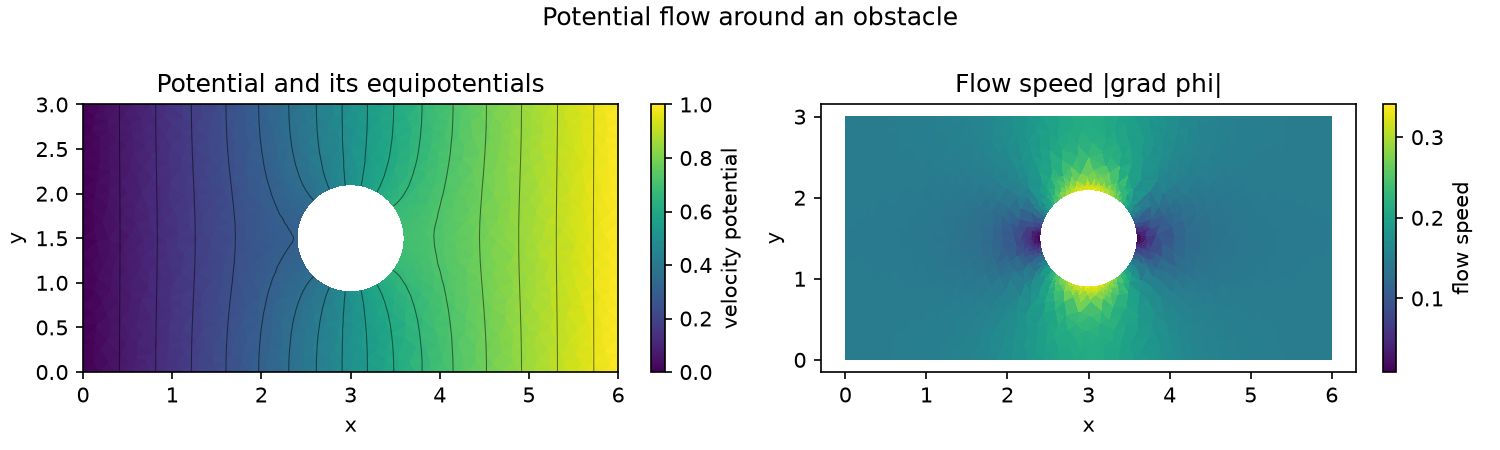
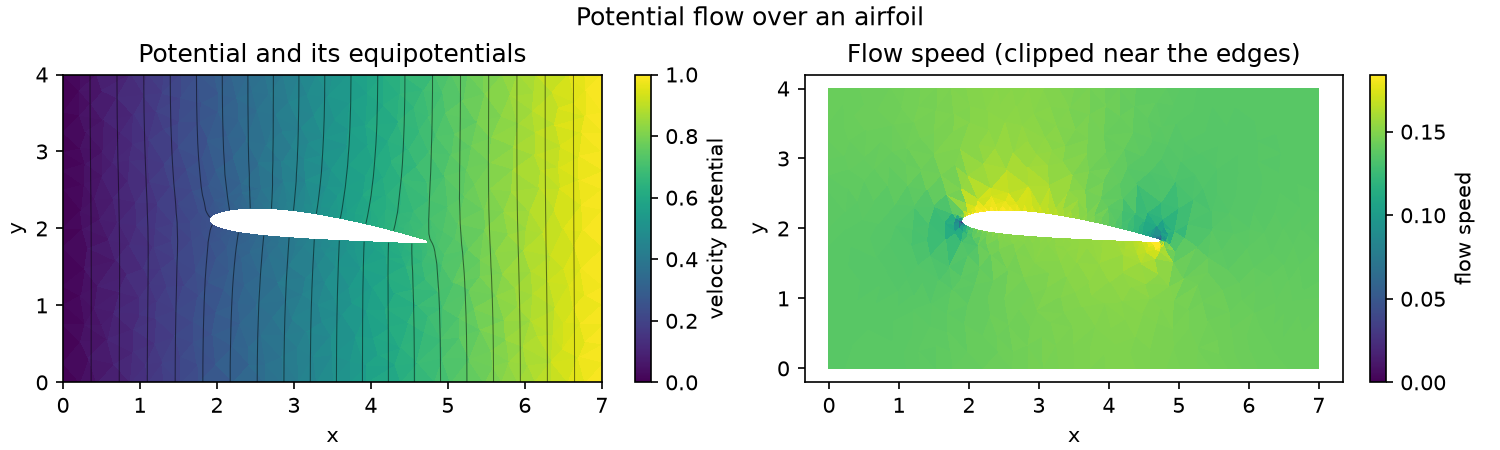
Make the potential-flow obstacle a real NACA airfoil
Upgrades the potential-flow demo from a circular obstacle to a NACA 2412 airfoil at
6 degrees angle of attack, generated from the standard 4-digit formula (no data file).
The equipotentials crowd over the upper surface and the flow speeds up there, the
classic wing picture.

Meshing a finely sampled smooth curve exposed a performance failure in Ruppert's:

- Perturb each inserted circumcenter a hair (1e-4 of its circumradius, deterministic
  direction from a fixed seed) off its exact position. A circumcenter lies exactly on
  its triangle's circumcircle, the cocircular worst case for the incremental Delaunay
  underneath; a finely sampled outline packs enough near-cocircular points that qhull's
  merge fails on most insertions there, and the batch-rebuild recovery then dominates
  the run (O(n) per trip). The nudge breaks the degeneracy at the source, far above
  qhull's precision floor and far below any mesh feature, so the airfoil meshes in a
  couple of seconds with no rebuilds. `test_refinement_is_reproducible_despite_the_perturbation`
  pins that the fixed seed keeps a run deterministic.

- The trailing edge is trimmed to a small blunt edge (`te_trim`) so the mesher is not
  chasing a cusp with unboundedly many tiny triangles.

diff --git a/examples/solver_demos.py b/examples/solver_demos.py
@@ -36,7 +36,8 @@ from fem.modal import ModalSolver
 
 from demo_registry import Demo, DemoResult, Figure
 from domains import (
-    beam, column, l_bracket_pslg, plate_with_hole_pslg, square, tuning_fork_pslg,
+    airfoil_channel_pslg, beam, column, l_bracket_pslg, plate_with_hole_pslg, square,
+    tuning_fork_pslg,
 )
 
 np.set_printoptions(suppress=True)
@@ -88,26 +89,25 @@ def demo_poisson_equation(mesh):
                'conditions', setup=True),
     ])
 
-def demo_potential_flow(length=6.0, height=3.0, radius=0.6, segments=128,
-                        min_angle=28, max_area_fraction=0.001):
-    """Potential flow around a circular obstacle: Laplace's equation for the velocity
-    potential, with the obstacle a no-flux streamline the flow parts around."""
+def demo_potential_flow(length=7.0, height=4.0, chord=3.0, angle_of_attack=6.0,
+                        n_points=80, min_angle=20, max_area_fraction=0.002):
+    """Potential flow over a NACA airfoil: Laplace's equation for the velocity potential,
+    with the wing a no-flux streamline the flow accelerates over."""
     # An ideal (incompressible, irrotational) flow has a velocity potential phi with
-    # v = grad(phi) and div(v) = 0, so phi solves Laplace's equation. The solid obstacle
-    # carries no flow through it, which is exactly the natural (zero-flux) condition of
-    # the weak form: say nothing on the rim and it becomes a streamline the flow parts
-    # around. A potential difference across the channel drives the flow; the top and
-    # bottom walls are no-flux too.
-    pslg = plate_with_hole_pslg(length, height, radius, segments=segments)
+    # v = grad(phi) and div(v) = 0, so phi solves Laplace's equation. The wing carries no
+    # flow through it, which is exactly the natural (zero-flux) condition of the weak
+    # form: say nothing on its surface and it becomes a streamline the flow parts around.
+    # A potential difference across the channel drives the flow; the walls are no-flux too.
+    pslg = airfoil_channel_pslg(length, height, chord, angle_of_attack, n_points=n_points)
     pslg.validate()
     mesh = RuppertsAlgorithm(pslg, min_angle=min_angle,
                              max_area=max_area_fraction * pslg.area()).refine()
 
     equation = Poisson(source=0)   # Laplace: no sources in the flow
     bc = BoundaryConditions()
-    # phi rises from inlet to outlet, so v = grad(phi) runs left to right. The rim and
-    # the long walls take no condition, which is the no-flux streamline that makes this
-    # a flow *around* the obstacle rather than through it.
+    # phi rises from inlet to outlet, so v = grad(phi) runs left to right. The wing and
+    # the walls take no condition, which is the no-flux streamline that makes this a flow
+    # *over* the wing rather than through it.
     bc.add(BCType.DIRICHLET, on_plane(0, 0.0), 0.0)      # inlet (left)
     bc.add(BCType.DIRICHLET, on_plane(0, length), 1.0)   # outlet (right)
 
@@ -115,30 +115,35 @@ def demo_potential_flow(length=6.0, height=3.0, radius=0.6, segments=128,
     solution = solver.solve()
     velocity = solver.space.gradient(solution.u)         # v = grad(phi), per element
     speed = np.linalg.norm(velocity, axis=1)
+    # Ideal flow with no Kutta condition predicts a near-singular velocity where the
+    # airfoil edges are sharp, which would swamp the colour scale. Clip it to a high
+    # percentile so the flow over the wing, the point of the figure, stays legible.
+    cap = float(np.percentile(speed, 96))
 
-    conditions = Plotter(panel_aspect=2.0)
+    conditions = Plotter(panel_aspect=1.8)
     conditions.plot(mesh, mode='bc', bc=bc)
 
-    plotter = Plotter(1, 2, title='Potential flow around an obstacle', panel_aspect=2.0)
+    plotter = Plotter(1, 2, title='Potential flow over an airfoil', panel_aspect=1.8)
     plotter.plot(mesh, solution.u, mode='colored', idx=(0, 0), label='velocity potential',
-                 title='Potential and its equipotentials', contour=18)
-    plotter.plot(mesh, speed, mode='colored', idx=(0, 1), label='flow speed',
-                 title='Flow speed |grad phi|')
+                 title='Potential and its equipotentials', contour=22)
+    plotter.plot(mesh, speed, mode='colored', idx=(0, 1), label='flow speed', clim=(0.0, cap),
+                 title='Flow speed (clipped near the edges)')
     return DemoResult([
         Figure(plotter,
-               'Ideal flow past a circular obstacle. Left: the velocity potential phi '
-               '(Laplace) with its equipotentials, which crowd together where the flow '
-               'has to speed up and bend around the hole. Right: the flow speed |grad '
-               'phi|, highest at the top and bottom of the obstacle where the channel '
-               'narrows, and slack fore and aft at the stagnation points. The rim carries '
-               'no condition at all: a free surface is the no-flux streamline of the weak '
-               'form, so the flow parts around a solid obstacle without a word said about '
-               'it.',
+               'Ideal (irrotational, incompressible) flow over a NACA 2412 airfoil at a '
+               f'{angle_of_attack:g}-degree angle of attack, generated from the standard '
+               'formula rather than a data file. Left: the velocity potential phi (Laplace) '
+               'with its equipotentials, which crowd over the upper surface where the flow '
+               'speeds up. Right: the flow speed, faster over the top than the bottom, with '
+               'stagnation near the leading and trailing edges. The wing takes no condition '
+               'at all: a free surface is the no-flux streamline of the weak form, so the '
+               'flow parts around it. The speed is clipped near the sharp edges, where ideal '
+               'flow with no Kutta condition predicts an unphysical velocity spike.',
                'flow'),
         Figure(conditions,
                'A potential difference across the channel (phi = 0 at the inlet, 1 at the '
-               'outlet) drives the flow; the long walls and the obstacle rim take nothing, '
-               'which is the no-flux condition that makes them streamlines.',
+               'outlet) drives the flow left to right; the walls and the wing surface take '
+               'nothing, which is the no-flux condition that makes them streamlines.',
                'conditions', setup=True),
     ])
 
@@ -1458,11 +1463,11 @@ DEMOS = [
     Demo('heat_3d', demo_heat_3d, section=SOLVING, smoke_kwargs={'steps': 3, 'n': 5}),
     Demo('wave', demo_wave_equation, section=SOLVING, domain=square),
     Demo('robin', demo_robin_bc, section=SOLVING, domain=partial(square, 80)),
-    # Builds its own plate-with-hole from an outline (the meshing is part of what it
-    # shows), so it takes no domain. The smoke run loosens the size cap and coarsens the
-    # circle, which together are all of its cost.
+    # Builds its own airfoil-in-a-channel from the NACA formula (the meshing is part of
+    # what it shows), so it takes no domain. The smoke run loosens the size cap and
+    # coarsens the airfoil, which together are all of its cost.
     Demo('potential_flow', demo_potential_flow, section=SOLVING,
-         smoke_kwargs={'segments': 32, 'max_area_fraction': 0.03}),
+         smoke_kwargs={'n_points': 40, 'max_area_fraction': 0.02}),
 
     # A cantilever is a beam. On the square this used to load, the "bending" was a
     # square bulging sideways, and the stress concentration had nowhere to run to.

diff --git a/examples/domains.py b/examples/domains.py
@@ -74,6 +74,60 @@ def plate_with_hole_pslg(length: float = 6.0, height: float = 3.0, radius: float
     return PSLG.from_loops([outline, hole])
 
 
+def _naca4_outline(camber: float, camber_pos: float, thickness: float, n: int,
+                   te_trim: float = 0.05) -> np.ndarray:
+    """A NACA 4-digit airfoil as a closed loop of points, unit chord along +x.
+
+    `camber` (m), `camber_pos` (p), and `thickness` (t) are the usual fractions: a NACA
+    2412 is (0.02, 0.4, 0.12). Cosine node spacing clusters points at the leading and
+    trailing edges, where the curvature is highest.
+
+    `te_trim` cuts that fraction of the chord off the trailing edge, leaving a blunt edge
+    of finite thickness in place of the near-cusp a full 4-digit section tapers to. The
+    cusp is a sliver the mesher would chase with unboundedly many tiny triangles; a blunt
+    edge meshes in a moment and barely changes the flow.
+    """
+    beta = np.linspace(0, np.pi, n)
+    x = 0.5 * (1 - np.cos(beta)) * (1 - te_trim)    # cosine spacing, 0 (LE) to 1-te_trim (TE)
+    yt = 5 * thickness * (0.2969 * np.sqrt(x) - 0.1260 * x - 0.3516 * x**2
+                          + 0.2843 * x**3 - 0.1015 * x**4)
+    if camber > 0 and 0 < camber_pos < 1:
+        m, p = camber, camber_pos
+        yc = np.where(x < p, m / p**2 * (2 * p * x - x**2),
+                      m / (1 - p)**2 * ((1 - 2 * p) + 2 * p * x - x**2))
+        dyc = np.where(x < p, 2 * m / p**2 * (p - x), 2 * m / (1 - p)**2 * (p - x))
+    else:
+        yc = dyc = np.zeros_like(x)                 # symmetric section (m = 0)
+    theta = np.arctan(dyc)
+    upper = np.column_stack([x - yt * np.sin(theta), yc + yt * np.cos(theta)])
+    lower = np.column_stack([x + yt * np.sin(theta), yc - yt * np.cos(theta)])
+    # Trailing edge over the top to the leading edge, then back under; the shared leading
+    # edge is dropped so it is not duplicated.
+    return np.vstack([upper[::-1], lower[1:]])
+
+
+def airfoil_channel_pslg(length: float = 7.0, height: float = 4.0, chord: float = 3.0,
+                         angle_of_attack: float = 6.0, camber: float = 0.02,
+                         camber_pos: float = 0.4, thickness: float = 0.12,
+                         n_points: int = 100) -> PSLG:
+    """A rectangular channel with a NACA 4-digit airfoil obstacle in it, as a PSLG.
+
+    The airfoil is generated analytically (no data file needed), scaled to `chord`,
+    pitched `angle_of_attack` degrees nose-up into a left-to-right flow, and placed in
+    the channel. The default is a NACA 2412. Under the even-odd rule the airfoil loop is
+    a hole, so a mesh covers the fluid and stops at the wing, making its surface a
+    boundary the solver sees (and, taking no condition, a streamline).
+    """
+    foil = _naca4_outline(camber, camber_pos, thickness, n_points)
+    foil = foil * chord - [0.35 * chord, 0.0]       # pivot near the quarter-chord
+    a = np.deg2rad(angle_of_attack)
+    c, s = np.cos(a), np.sin(a)
+    foil = foil @ np.array([[c, -s], [s, c]])       # nose up into the +x flow
+    foil = foil + [0.42 * length, 0.5 * height]
+    outline = np.array([[0.0, 0.0], [length, 0.0], [length, height], [0.0, height]])
+    return PSLG.from_loops([outline, foil])
+
+
 def l_bracket_pslg(arm: float = 4.0, width: float = 1.2, fillet_radius: float = 0.0,
                    n_fillet: int = 16) -> PSLG:
     """An L-shaped bracket as a PSLG, with an optional fillet at the inner corner.

diff --git a/fem/mesh/ruppert.py b/fem/mesh/ruppert.py
@@ -128,6 +128,11 @@ class RuppertsAlgorithm:
         # Which loop each boundary facet of the returned mesh came from; set by refine().
         self.boundary_loops = np.zeros(0, dtype=int)
 
+        # A fixed seed so a mesh is reproducible: the only randomness is the direction of
+        # the tiny nudge `_perturb` gives each inserted circumcenter (see there), and
+        # insertions happen in a deterministic order, so the whole run is deterministic.
+        self._rng = np.random.default_rng(0)
+
         # Diametral circles, and which segments a vertex sits inside. Both are
         # maintained as segments and vertices are added; see `_diametral_circles`
         # and `get_encroached_segments`. The one full scan is here, where a KD-tree
@@ -530,7 +535,8 @@ class RuppertsAlgorithm:
                         break
                     self._refill_bad_queue(remaining)
                     continue
-                circumcenter = calculate_circumcenter(self.vertices[list(triangle)])
+                circumcenter = self._perturb(
+                    calculate_circumcenter(self.vertices[list(triangle)]), list(triangle))
                 # Inserting a point inside a segment's diametral circle would cut
                 # the mesh off from the outline, so split those segments instead
                 # and put the triangle back to be reconsidered once they are gone.
@@ -561,6 +567,25 @@ class RuppertsAlgorithm:
         self._encroached = np.delete(self._encroached, segment_idx)
         self._circles = None
         return loop_id
+
+    def _perturb(self, circumcenter, triangle):
+        '''Nudge an inserted circumcenter a hair off its exact position.
+
+        A circumcenter lies exactly on its triangle's circumcircle, which is the
+        cocircular worst case for the incremental Delaunay underneath: on the lifted
+        paraboloid the new point is coplanar with the ones it joins, and qhull's facet
+        merge can fail with a precision error. One re-entrant corner trips it rarely, but
+        a finely sampled smooth outline (an airfoil) packs enough near-cocircular points
+        that it trips on most insertions there, and the batch-rebuild recovery in
+        `_retriangulate` then dominates the run. Moving the point a fixed tiny fraction of
+        its circumradius, in a deterministic direction, breaks the degeneracy at the
+        source while leaving it where refinement meant to put it: the offset is far above
+        qhull's precision floor and far below any mesh feature. Only interior circumcenters
+        are perturbed; a segment split point has to stay on its segment.
+        '''
+        radius = float(np.linalg.norm(circumcenter - self.vertices[triangle[0]]))
+        angle = float(self._rng.uniform(0, 2 * np.pi))
+        return circumcenter + 1e-4 * radius * np.array([np.cos(angle), np.sin(angle)])
 
     def add_vertex(self, vertex):
         # The one place vertices appear, so the one place a segment can newly

diff --git a/tests/test_ruppert.py b/tests/test_ruppert.py
@@ -664,3 +664,14 @@ def test_a_reentrant_corner_meshes_through_an_incremental_precision_error(max_ar
     vertices = np.asarray(mesh.vertices)
     filled = sum(calculate_polygon_area(vertices[element]) for element in mesh.elements)
     assert filled == pytest.approx(pslg.area())
+
+
+def test_refinement_is_reproducible_despite_the_perturbation():
+    """Each inserted circumcenter is nudged a hair off its exact position to dodge the
+    cocircular precision failure, but from a fixed seed, so a run is deterministic:
+    meshing the same outline twice must give the identical triangulation."""
+    first = RuppertsAlgorithm(_l_shape(), min_angle=25, max_area=REFINING_AREA).refine()
+    second = RuppertsAlgorithm(_l_shape(), min_angle=25, max_area=REFINING_AREA).refine()
+
+    assert np.array_equal(first.vertices, second.vertices)
+    assert np.array_equal(first.elements, second.elements)

diff --git a/README.md b/README.md
@@ -124,17 +124,18 @@ with the gradient recovered from the solution beside it.
 
 ![Poisson solution, gradient, and gradient norm](images/poisson.png)
 
-### Potential flow around an obstacle
+### Potential flow over an airfoil
 
 The same scalar operator tells a different story on a domain with a hole. An ideal
 (incompressible, irrotational) flow has a velocity potential $\phi$ with
-$\mathbf{v} = \nabla\phi$, so $\phi$ solves Laplace's equation. A potential difference
-drives the flow left to right; the solid obstacle carries no flow through it, which is
-exactly the natural zero-flux condition of the weak form. Say nothing on the rim and it
-becomes a streamline the flow parts around. The equipotentials crowd and bend past the
-hole, and the flow speeds up where the channel narrows.
+$\mathbf{v} = \nabla\phi$, so $\phi$ solves Laplace's equation. The obstacle here is a
+NACA 2412 airfoil at a 6-degree angle of attack, generated from the standard formula
+rather than a data file. A potential difference drives the flow left to right; the wing
+carries no flow through it, which is exactly the natural zero-flux condition of the weak
+form. Say nothing on its surface and it becomes a streamline the flow parts around. The
+equipotentials crowd over the upper surface, where the flow speeds up.
 
-![Potential flow: equipotentials and flow speed around a circular obstacle](images/potential_flow.png)
+![Potential flow: equipotentials and flow speed over a NACA airfoil](images/potential_flow.png)
 
 ### Heat equation
 
